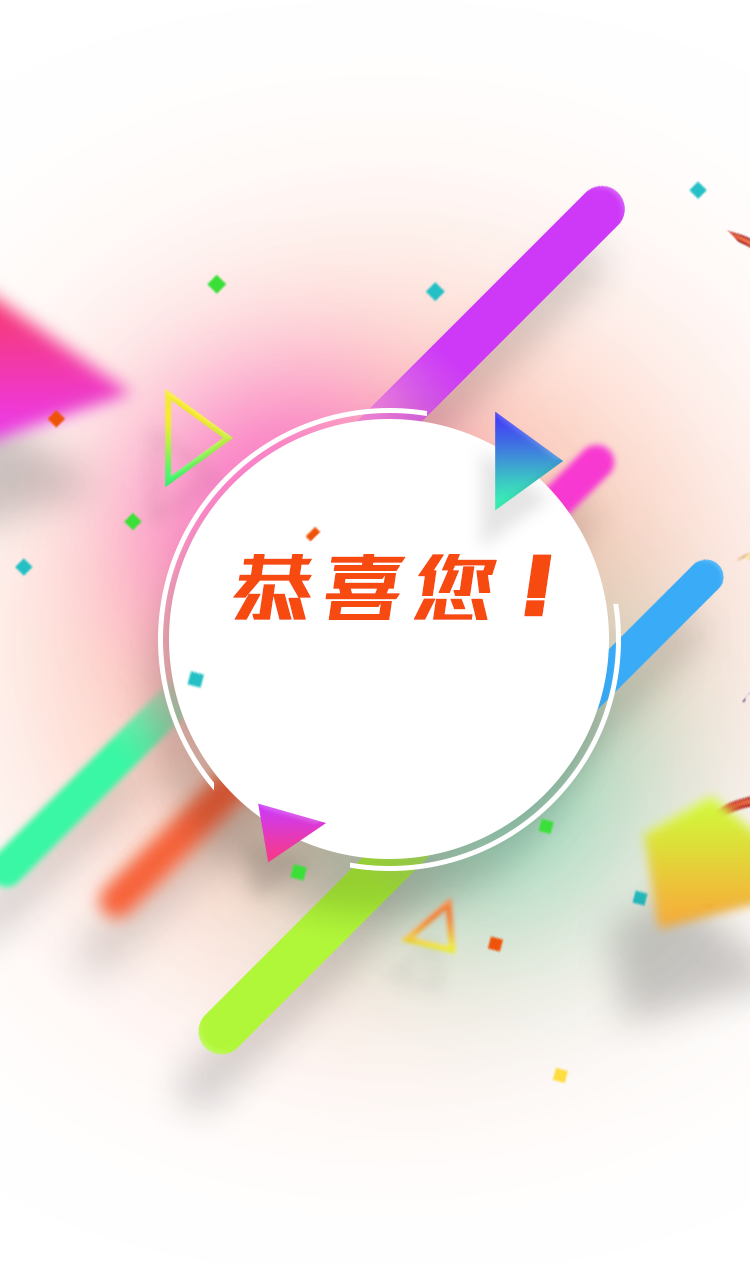
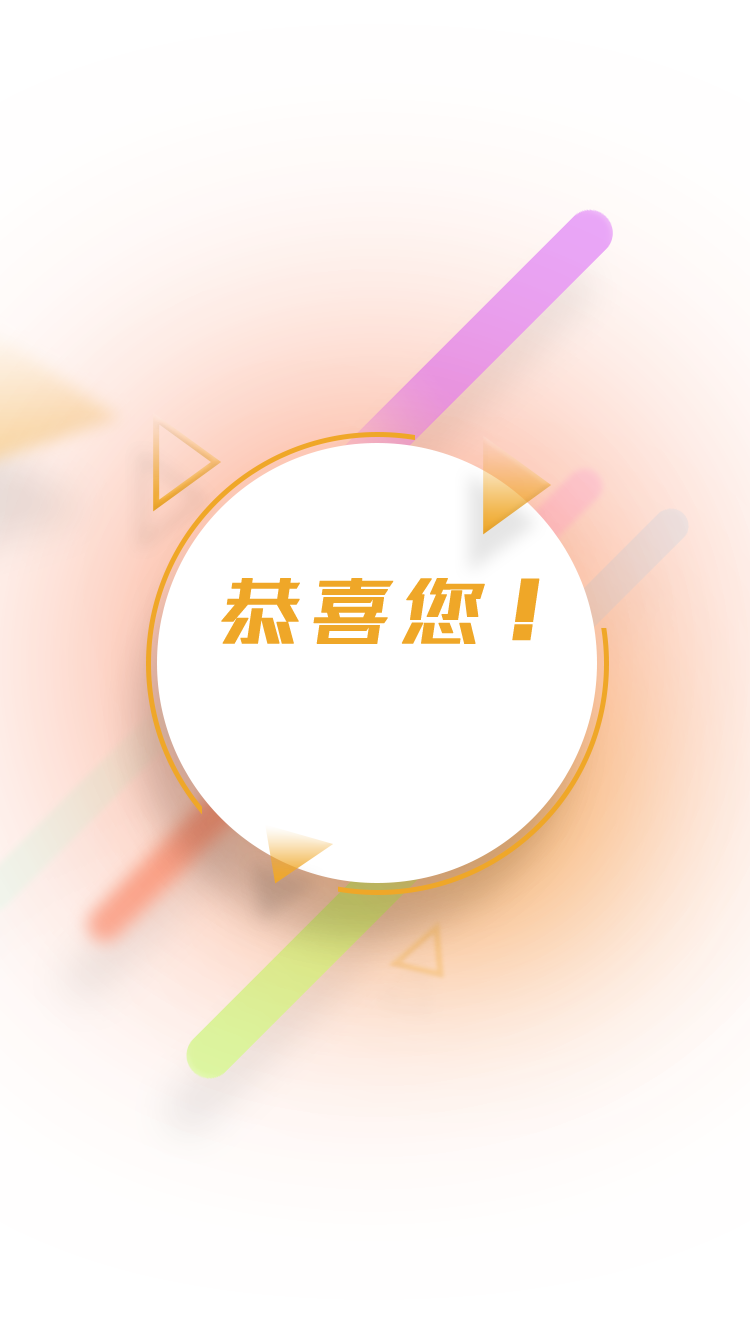
修改c端的样式

diff --git a/shop-mall/src/main/webapp/static/css/pageCss/paySuccess.css b/shop-mall/src/main/webapp/static/css/pageCss/paySuccess.css
@@ -134,7 +134,7 @@
   width: 100%;
 }
 .backi img.cbtn{
-  width:40%;
+  width: 37%;
   position: absolute;
   left: 50%;
   top: 50%;
@@ -143,7 +143,7 @@
 }
 .backi p{
   font-size: 1.3rem;
-  color: #f74a11;
+  color: #333;
   position: absolute;
   top: 50%;
   margin-top: -0.5%;
